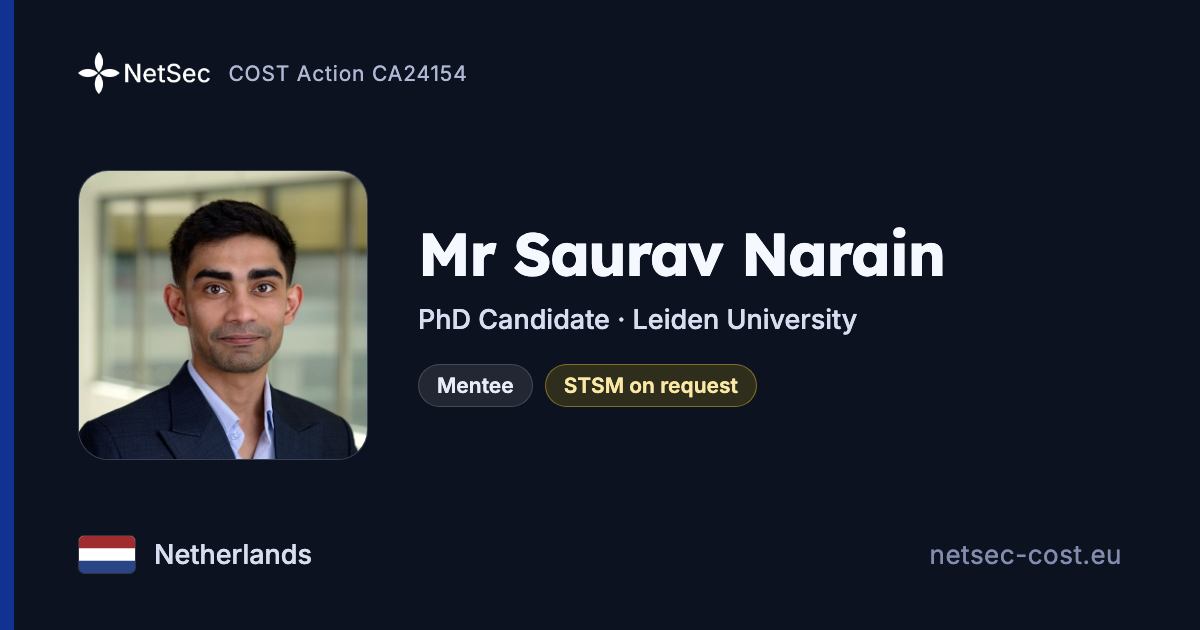
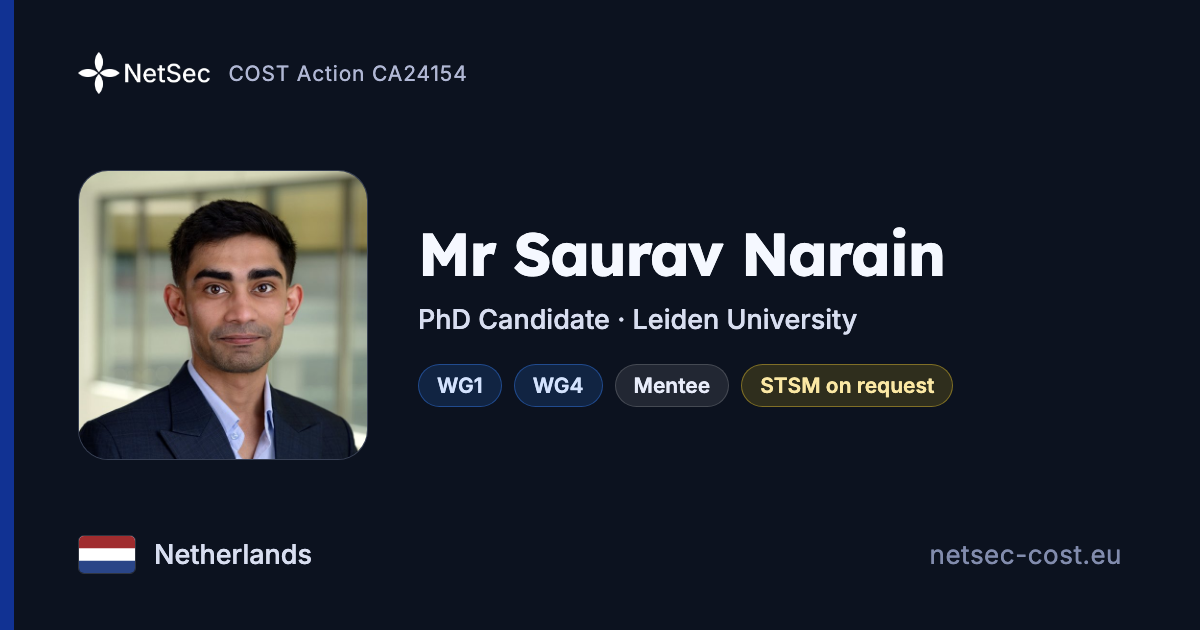
data: sync WG memberships + leadership from cost.eu (#1110)
* data: sync WG memberships + leadership from cost.eu

Refreshed four surfaces against the Membership and
Leadership tables on cost.eu/actions/CA24154/:
  - WG_MAP literal in index.html (home-page WG chips)
  - per-bio `wgs` + `wg_leadership` in data/bios.json (directory)
  - leadership `roles` array on seed entries in data/bios.json
  - data/wg.json (per-WG membership + leadership)
  - /people/<slug> profile pages rebuilt from the above
See the PR body for the exact diffs.

* data: regenerate Saurav Narain's OG card after the WG/leadership sync

The cost.eu sync changed this member's working-group / leadership data in
bios.json, which feeds the per-member OG card hash, but the sync workflow
rebuilds only the profile pages, not the cards. Re-render so the data-shape
and pytest `build-og-cards.py --check` gates pass. The workflow gap itself
is fixed separately.

---------

Changed region(s): [[0.3392, 0.573, 0.8017, 0.6635]]

diff --git a/index.html b/index.html
@@ -799,7 +799,7 @@ document.addEventListener('DOMContentLoaded', function () {
      Names are stored normalized (no salutation, no diacritics,
      lower-case) so the match is robust to formatting differences.
      To refresh, see scripts/sync-cost.py (committed alongside). */
-  const WG_MAP = {"abdelouahid ezzarfi": [4], "ajsela toci": [3], "aleksandar ivanov": [1, 2], "alena lochmannova": [4], "alessandro indelicato": [3, 4], "alin barbantan": [1, 3], "ana santos pinto": [2, 3], "andreea dragomir": [1, 3], "antonio calcara": [3], "anzelika baneviciene": [2, 3], "arthur laudrain": [1, 2, 3], "aurelija puraite": [2, 3], "benoit josset": [4], "benoit pelopidas": [3], "bora iyiat": [1, 2, 4], "brynjolfur stefansson": [2], "burak toraman": [2], "carmen marquez carrasco": [2, 3], "catherine menon": [1, 2], "chiara libiseller": [3], "cigdem ustun": [1, 3], "clara jammot": [1, 2], "constantinos adamides": [1, 2], "daniel o'toole": [1], "daniela castilhos": [4], "daniela mechkaroska": [2, 3], "danilo kalezic": [1, 2], "david curran": [1, 2, 3, 4], "david matsaberidze": [1, 3], "dimitar atanasov": [2], "draga gajic": [2, 3, 4], "eda kusku sonmez": [1, 3], "edlira titini": [2, 3, 4], "ekrem ok": [3], "eleni christodoulou": [1], "eleri lillemae": [1], "elif kara": [4], "elisabetta ginevra iida": [3], "erdem ozluk": [3], "esra merve boztosun caliskan": [1, 3], "eugenio sanchez": [3], "fatiha djebbar": [1, 3], "felipe pathe duarte": [1, 2, 3], "filip ejdus": [1, 2, 3, 4], "fitim kastrati": [4], "furkan sarper koseoglu": [1, 2, 3], "gayane harutyunyan": [2, 3], "georgian marius ghincea": [1, 2, 3, 4], "giulia biselli": [1, 2, 3, 4], "grigor vardanyan": [1, 2, 3, 4], "gurkan gur": [1], "halil kanadikirik": [1, 4], "hugo meijer": [1], "i. aytac kadioglu": [1, 3, 4], "ice ilijevski": [2, 3], "ilke gocmen": [1], "ilyas ferhat demirbas": [3], "isabelle haynes": [1], "islam jusufi": [1, 2, 3], "iztok prezelj": [1, 2, 3], "jessica pereira": [3, 4], "john helferich": [1], "julia carver": [1, 2, 4], "kalina lubas": [2], "keara barrett": [1, 2, 3, 4], "kenan hodzic": [3, 4], "kire babanoski": [1, 3, 4], "kujtim zeka": [3, 4], "laura inigo alvarez": [3, 4], "laurena kalaja": [1, 3], "liliana pasquale": [1], "lindita licaj": [3, 4], "lorenz sommer": [1], "ludovica castelli": [1, 3], "magnus petersson": [1], "marco wyss": [1, 3], "marie robin": [2, 3], "marina bartolome valenzuela": [2], "marko kovacevic": [1, 2, 3, 4], "martin chovancik": [1, 2, 3], "martin havacek": [1, 3], "mattia sguazzini": [1], "mehmet babacan": [2], "mehmet gokay ozerim": [1, 4], "mehmet recai uygur": [2, 3], "mentor beqa": [1, 2, 3], "mia abdic": [4], "milan varda": [1, 3], "mile obrenovic": [3], "miranda tedeshvili": [2, 3], "mirela imsirovic": [1, 3], "monica grau sarabia": [4], "monika gabriela bartoszewicz": [1, 2, 3], "moritz weiss": [1, 3], "muammer ozturk": [3], "muhammet ozcan": [1, 3, 4], "nemanja dzuverovic": [1, 4], "nicolas krieger": [1], "nicolas lemay-hebert": [3], "nikolaos tzifakis": [1], "njazi bytyqi": [4], "noela mahmutaj": [1, 2, 3], "paulina polko": [2], "pavlosioannis koktsidis": [1, 2, 3], "pieter zhao": [3], "pinar akgul": [1, 2], "pinar caglayan": [1, 4], "revecca pedi": [1, 4], "ruzica cubela bajramovic": [1, 2], "samuel zilincik": [1, 2, 3], "sandra cvikic": [2], "sanne verschuren": [1, 2], "sara russo": [2], "sarka kolmasova": [1, 2, 3, 4], "savas bicer": [2], "senada selo sabic": [2, 4], "serghei sprincean": [2], "sergiu gabriel berindea": [3], "seyithan ahmet ates": [1], "simge pelit": [3], "tahir azad": [2], "tamer kasikci": [1, 3, 4], "tanase tasente": [1, 2, 3, 4], "tanja pavleska": [1, 3, 4], "teemu hakkinen": [1, 2], "theo zacharis": [1], "tijana karic": [1, 2], "tijana recevic": [2, 3, 4], "tim thies": [3], "valderi leithardt": [4], "vanessa newby": [3], "vasil pavlov": [1, 3], "vasiliki plessia aravani": [2], "vedat coskun": [2], "veronica russu": [1, 2], "veronika nagy": [1, 4], "vesna nikolic": [2, 4], "violeta vasiliauskiene": [1], "vladimir sterpu": [1, 2, 3], "walid blila": [1, 2], "yagnyashri kodaru": [2], "yasemin necmiye tutar": [3], "yigit cem eskicioglu": [3, 4], "yijun xu": [3], "yusuf ozer": [2, 3]};
+  const WG_MAP = {"abdelouahid ezzarfi": [4], "ajsela toci": [3], "aleksandar ivanov": [1, 2], "alena lochmannova": [4], "alessandro indelicato": [3, 4], "alin barbantan": [1, 3], "ana santos pinto": [2, 3], "andreea dragomir": [1, 3], "antonio calcara": [3], "anzelika baneviciene": [2, 3], "arthur laudrain": [1, 2, 3], "aurelija puraite": [2, 3], "benoit josset": [4], "benoit pelopidas": [3], "bora iyiat": [1, 2, 4], "brynjolfur stefansson": [2], "burak toraman": [2], "carmen marquez carrasco": [2, 3], "catherine menon": [1, 2], "chiara libiseller": [3], "cigdem ustun": [1, 3], "clara jammot": [1, 2], "constantinos adamides": [1, 2], "daniel o'toole": [1], "daniela castilhos": [4], "daniela mechkaroska": [2, 3], "danilo kalezic": [1, 2], "david curran": [1, 2, 3, 4], "david matsaberidze": [1, 3], "dimitar atanasov": [2], "draga gajic": [2, 3, 4], "eda kusku sonmez": [1, 3], "edlira titini": [2, 3, 4], "ekrem ok": [3], "eleni christodoulou": [1], "eleri lillemae": [1], "elif kara": [4], "elisabetta ginevra iida": [3], "erdem ozluk": [3], "esra merve boztosun caliskan": [1, 3], "eugenio sanchez": [3], "fatiha djebbar": [1, 3], "felipe pathe duarte": [1, 2, 3], "filip ejdus": [1, 2, 3, 4], "fitim kastrati": [4], "furkan sarper koseoglu": [1, 2, 3], "gayane harutyunyan": [2, 3], "georgian marius ghincea": [1, 2, 3, 4], "giulia biselli": [1, 2, 3, 4], "grigor vardanyan": [1, 2, 3, 4], "gurkan gur": [1], "halil kanadikirik": [1, 4], "hugo meijer": [1], "i. aytac kadioglu": [1, 3, 4], "ice ilijevski": [2, 3], "ilke gocmen": [1], "ilyas ferhat demirbas": [3], "isabelle haynes": [1], "islam jusufi": [1, 2, 3], "iztok prezelj": [1, 2, 3], "jessica pereira": [3, 4], "john helferich": [1], "julia carver": [1, 2, 4], "kalina lubas": [2], "keara barrett": [1, 2, 3, 4], "kenan hodzic": [3, 4], "kire babanoski": [1, 3, 4], "kujtim zeka": [3, 4], "laura inigo alvarez": [3, 4], "laurena kalaja": [1, 3], "liliana pasquale": [1], "lindita licaj": [3, 4], "lorenz sommer": [1], "ludovica castelli": [1, 3], "magnus petersson": [1], "marco wyss": [1, 3], "marie robin": [2, 3], "marina bartolome valenzuela": [2], "marko kovacevic": [1, 2, 3, 4], "martin chovancik": [1, 2, 3], "martin havacek": [1, 3], "mattia sguazzini": [1], "mehmet babacan": [2], "mehmet gokay ozerim": [1, 4], "mehmet recai uygur": [2, 3], "mentor beqa": [1, 2, 3], "mia abdic": [4], "milan varda": [1, 3], "mile obrenovic": [3], "miranda tedeshvili": [2, 3], "mirela imsirovic": [1, 3], "monica grau sarabia": [4], "monika gabriela bartoszewicz": [1, 2, 3], "moritz weiss": [1, 3], "muammer ozturk": [3], "muhammet ozcan": [1, 3, 4], "nemanja dzuverovic": [1, 4], "nicolas krieger": [1], "nicolas lemay-hebert": [3], "nikolaos tzifakis": [1], "njazi bytyqi": [4], "noela mahmutaj": [1, 2, 3], "paulina polko": [2], "pavlosioannis koktsidis": [1, 2, 3], "pieter zhao": [3], "pinar akgul": [1, 2], "pinar caglayan": [1, 4], "revecca pedi": [1, 4], "ruzica cubela bajramovic": [1, 2], "samuel zilincik": [1, 2, 3], "sandra cvikic": [2], "sanne verschuren": [1, 2], "sara russo": [2], "sarka kolmasova": [1, 2, 3, 4], "saurav narain": [1, 4], "savas bicer": [2], "senada selo sabic": [2, 4], "serghei sprincean": [2], "sergiu gabriel berindea": [3], "seyithan ahmet ates": [1], "simge pelit": [3], "tahir azad": [2], "tamer kasikci": [1, 3, 4], "tanase tasente": [1, 2, 3, 4], "tanja pavleska": [1, 3, 4], "teemu hakkinen": [1, 2], "theo zacharis": [1], "tijana karic": [1, 2], "tijana recevic": [2, 3, 4], "tim thies": [3], "valderi leithardt": [4], "vanessa newby": [3], "vasil pavlov": [1, 3], "vasiliki plessia aravani": [2], "vedat coskun": [2], "veronica russu": [1, 2], "veronika nagy": [1, 4], "vesna nikolic": [2, 4], "violeta vasiliauskiene": [1], "vladimir sterpu": [1, 2, 3], "walid blila": [1, 2], "yagnyashri kodaru": [2], "yasemin necmiye tutar": [3], "yigit cem eskicioglu": [3, 4], "yijun xu": [3], "yusuf ozer": [2, 3]};
   const normPerson = s => s.normalize('NFKD').replace(/[\u0300-\u036f]/g, '').replace(/^(Dr|Prof|Mr|Ms|Mrs)\.?\s+/i, '').trim().toLowerCase();
   document.querySelectorAll('[data-person]').forEach(el => {
     const wgs = WG_MAP[normPerson(el.dataset.person)];

diff --git a/index.de.html b/index.de.html
@@ -714,7 +714,7 @@ document.addEventListener('DOMContentLoaded', function () {
   /* Working-group membership chips — WG_MAP is identical to the EN
      source; the matcher is name-based and language-agnostic. The
      aria-label is translated for screen-reader users. */
-  const WG_MAP = {"abdelouahid ezzarfi": [4], "ajsela toci": [3], "aleksandar ivanov": [1, 2], "alena lochmannova": [4], "alessandro indelicato": [3, 4], "alin barbantan": [1, 3], "ana santos pinto": [2, 3], "andreea dragomir": [1, 3], "antonio calcara": [3], "anzelika baneviciene": [2, 3], "arthur laudrain": [1, 2, 3], "aurelija puraite": [2, 3], "benoit josset": [4], "benoit pelopidas": [3], "bora iyiat": [1, 2, 4], "brynjolfur stefansson": [2], "burak toraman": [2], "carmen marquez carrasco": [2, 3], "catherine menon": [1, 2], "chiara libiseller": [3], "cigdem ustun": [1, 3], "clara jammot": [1, 2], "constantinos adamides": [1, 2], "daniel o'toole": [1], "daniela castilhos": [4], "daniela mechkaroska": [2, 3], "danilo kalezic": [1, 2], "david curran": [1, 2, 3, 4], "david matsaberidze": [1, 3], "dimitar atanasov": [2], "draga gajic": [2, 3, 4], "eda kusku sonmez": [1, 3], "edlira titini": [2, 3, 4], "ekrem ok": [3], "eleni christodoulou": [1], "eleri lillemae": [1], "elif kara": [4], "elisabetta ginevra iida": [3], "erdem ozluk": [3], "esra merve boztosun caliskan": [1, 3], "eugenio sanchez": [3], "fatiha djebbar": [1, 3], "felipe pathe duarte": [1, 2, 3], "filip ejdus": [1, 2, 3, 4], "fitim kastrati": [4], "furkan sarper koseoglu": [1, 2, 3], "gayane harutyunyan": [2, 3], "georgian marius ghincea": [1, 2, 3, 4], "giulia biselli": [1, 2, 3, 4], "grigor vardanyan": [1, 2, 3, 4], "gurkan gur": [1], "halil kanadikirik": [1, 4], "hugo meijer": [1], "i. aytac kadioglu": [1, 3, 4], "ice ilijevski": [2, 3], "ilke gocmen": [1], "ilyas ferhat demirbas": [3], "isabelle haynes": [1], "islam jusufi": [1, 2, 3], "iztok prezelj": [1, 2, 3], "jessica pereira": [3, 4], "john helferich": [1], "julia carver": [1, 2, 4], "kalina lubas": [2], "keara barrett": [1, 2, 3, 4], "kenan hodzic": [3, 4], "kire babanoski": [1, 3, 4], "kujtim zeka": [3, 4], "laura inigo alvarez": [3, 4], "laurena kalaja": [1, 3], "liliana pasquale": [1], "lindita licaj": [3, 4], "lorenz sommer": [1], "ludovica castelli": [1, 3], "magnus petersson": [1], "marco wyss": [1, 3], "marie robin": [2, 3], "marina bartolome valenzuela": [2], "marko kovacevic": [1, 2, 3, 4], "martin chovancik": [1, 2, 3], "martin havacek": [1, 3], "mattia sguazzini": [1], "mehmet babacan": [2], "mehmet gokay ozerim": [1, 4], "mehmet recai uygur": [2, 3], "mentor beqa": [1, 2, 3], "mia abdic": [4], "milan varda": [1, 3], "mile obrenovic": [3], "miranda tedeshvili": [2, 3], "mirela imsirovic": [1, 3], "monica grau sarabia": [4], "monika gabriela bartoszewicz": [1, 2, 3], "moritz weiss": [1, 3], "muammer ozturk": [3], "muhammet ozcan": [1, 3, 4], "nemanja dzuverovic": [1, 4], "nicolas krieger": [1], "nicolas lemay-hebert": [3], "nikolaos tzifakis": [1], "njazi bytyqi": [4], "noela mahmutaj": [1, 2, 3], "paulina polko": [2], "pavlosioannis koktsidis": [1, 2, 3], "pieter zhao": [3], "pinar akgul": [1, 2], "pinar caglayan": [1, 4], "revecca pedi": [1, 4], "ruzica cubela bajramovic": [1, 2], "samuel zilincik": [1, 2, 3], "sandra cvikic": [2], "sanne verschuren": [1, 2], "sara russo": [2], "sarka kolmasova": [1, 2, 3, 4], "savas bicer": [2], "senada selo sabic": [2, 4], "serghei sprincean": [2], "sergiu gabriel berindea": [3], "seyithan ahmet ates": [1], "simge pelit": [3], "tahir azad": [2], "tamer kasikci": [1, 3, 4], "tanase tasente": [1, 2, 3, 4], "tanja pavleska": [1, 3, 4], "teemu hakkinen": [1, 2], "theo zacharis": [1], "tijana karic": [1, 2], "tijana recevic": [2, 3, 4], "tim thies": [3], "valderi leithardt": [4], "vanessa newby": [3], "vasil pavlov": [1, 3], "vasiliki plessia aravani": [2], "vedat coskun": [2], "veronica russu": [1, 2], "veronika nagy": [1, 4], "vesna nikolic": [2, 4], "violeta vasiliauskiene": [1], "vladimir sterpu": [1, 2, 3], "walid blila": [1, 2], "yagnyashri kodaru": [2], "yasemin necmiye tutar": [3], "yigit cem eskicioglu": [3, 4], "yijun xu": [3], "yusuf ozer": [2, 3]};
+  const WG_MAP = {"abdelouahid ezzarfi": [4], "ajsela toci": [3], "aleksandar ivanov": [1, 2], "alena lochmannova": [4], "alessandro indelicato": [3, 4], "alin barbantan": [1, 3], "ana santos pinto": [2, 3], "andreea dragomir": [1, 3], "antonio calcara": [3], "anzelika baneviciene": [2, 3], "arthur laudrain": [1, 2, 3], "aurelija puraite": [2, 3], "benoit josset": [4], "benoit pelopidas": [3], "bora iyiat": [1, 2, 4], "brynjolfur stefansson": [2], "burak toraman": [2], "carmen marquez carrasco": [2, 3], "catherine menon": [1, 2], "chiara libiseller": [3], "cigdem ustun": [1, 3], "clara jammot": [1, 2], "constantinos adamides": [1, 2], "daniel o'toole": [1], "daniela castilhos": [4], "daniela mechkaroska": [2, 3], "danilo kalezic": [1, 2], "david curran": [1, 2, 3, 4], "david matsaberidze": [1, 3], "dimitar atanasov": [2], "draga gajic": [2, 3, 4], "eda kusku sonmez": [1, 3], "edlira titini": [2, 3, 4], "ekrem ok": [3], "eleni christodoulou": [1], "eleri lillemae": [1], "elif kara": [4], "elisabetta ginevra iida": [3], "erdem ozluk": [3], "esra merve boztosun caliskan": [1, 3], "eugenio sanchez": [3], "fatiha djebbar": [1, 3], "felipe pathe duarte": [1, 2, 3], "filip ejdus": [1, 2, 3, 4], "fitim kastrati": [4], "furkan sarper koseoglu": [1, 2, 3], "gayane harutyunyan": [2, 3], "georgian marius ghincea": [1, 2, 3, 4], "giulia biselli": [1, 2, 3, 4], "grigor vardanyan": [1, 2, 3, 4], "gurkan gur": [1], "halil kanadikirik": [1, 4], "hugo meijer": [1], "i. aytac kadioglu": [1, 3, 4], "ice ilijevski": [2, 3], "ilke gocmen": [1], "ilyas ferhat demirbas": [3], "isabelle haynes": [1], "islam jusufi": [1, 2, 3], "iztok prezelj": [1, 2, 3], "jessica pereira": [3, 4], "john helferich": [1], "julia carver": [1, 2, 4], "kalina lubas": [2], "keara barrett": [1, 2, 3, 4], "kenan hodzic": [3, 4], "kire babanoski": [1, 3, 4], "kujtim zeka": [3, 4], "laura inigo alvarez": [3, 4], "laurena kalaja": [1, 3], "liliana pasquale": [1], "lindita licaj": [3, 4], "lorenz sommer": [1], "ludovica castelli": [1, 3], "magnus petersson": [1], "marco wyss": [1, 3], "marie robin": [2, 3], "marina bartolome valenzuela": [2], "marko kovacevic": [1, 2, 3, 4], "martin chovancik": [1, 2, 3], "martin havacek": [1, 3], "mattia sguazzini": [1], "mehmet babacan": [2], "mehmet gokay ozerim": [1, 4], "mehmet recai uygur": [2, 3], "mentor beqa": [1, 2, 3], "mia abdic": [4], "milan varda": [1, 3], "mile obrenovic": [3], "miranda tedeshvili": [2, 3], "mirela imsirovic": [1, 3], "monica grau sarabia": [4], "monika gabriela bartoszewicz": [1, 2, 3], "moritz weiss": [1, 3], "muammer ozturk": [3], "muhammet ozcan": [1, 3, 4], "nemanja dzuverovic": [1, 4], "nicolas krieger": [1], "nicolas lemay-hebert": [3], "nikolaos tzifakis": [1], "njazi bytyqi": [4], "noela mahmutaj": [1, 2, 3], "paulina polko": [2], "pavlosioannis koktsidis": [1, 2, 3], "pieter zhao": [3], "pinar akgul": [1, 2], "pinar caglayan": [1, 4], "revecca pedi": [1, 4], "ruzica cubela bajramovic": [1, 2], "samuel zilincik": [1, 2, 3], "sandra cvikic": [2], "sanne verschuren": [1, 2], "sara russo": [2], "sarka kolmasova": [1, 2, 3, 4], "saurav narain": [1, 4], "savas bicer": [2], "senada selo sabic": [2, 4], "serghei sprincean": [2], "sergiu gabriel berindea": [3], "seyithan ahmet ates": [1], "simge pelit": [3], "tahir azad": [2], "tamer kasikci": [1, 3, 4], "tanase tasente": [1, 2, 3, 4], "tanja pavleska": [1, 3, 4], "teemu hakkinen": [1, 2], "theo zacharis": [1], "tijana karic": [1, 2], "tijana recevic": [2, 3, 4], "tim thies": [3], "valderi leithardt": [4], "vanessa newby": [3], "vasil pavlov": [1, 3], "vasiliki plessia aravani": [2], "vedat coskun": [2], "veronica russu": [1, 2], "veronika nagy": [1, 4], "vesna nikolic": [2, 4], "violeta vasiliauskiene": [1], "vladimir sterpu": [1, 2, 3], "walid blila": [1, 2], "yagnyashri kodaru": [2], "yasemin necmiye tutar": [3], "yigit cem eskicioglu": [3, 4], "yijun xu": [3], "yusuf ozer": [2, 3]};
   const normPerson = s => s.normalize('NFKD').replace(/[̀-ͯ]/g, '').replace(/^(Dr|Prof|Mr|Ms|Mrs)\.?\s+/i, '').trim().toLowerCase();
   document.querySelectorAll('[data-person]').forEach(el => {
     const wgs = WG_MAP[normPerson(el.dataset.person)];

diff --git a/index.fr.html b/index.fr.html
@@ -716,7 +716,7 @@ document.addEventListener('DOMContentLoaded', function () {
   /* Working-group membership chips — WG_MAP is identical to the EN
      source; the matcher is name-based and language-agnostic. The
      aria-label is translated for screen-reader users. */
-  const WG_MAP = {"abdelouahid ezzarfi": [4], "ajsela toci": [3], "aleksandar ivanov": [1, 2], "alena lochmannova": [4], "alessandro indelicato": [3, 4], "alin barbantan": [1, 3], "ana santos pinto": [2, 3], "andreea dragomir": [1, 3], "antonio calcara": [3], "anzelika baneviciene": [2, 3], "arthur laudrain": [1, 2, 3], "aurelija puraite": [2, 3], "benoit josset": [4], "benoit pelopidas": [3], "bora iyiat": [1, 2, 4], "brynjolfur stefansson": [2], "burak toraman": [2], "carmen marquez carrasco": [2, 3], "catherine menon": [1, 2], "chiara libiseller": [3], "cigdem ustun": [1, 3], "clara jammot": [1, 2], "constantinos adamides": [1, 2], "daniel o'toole": [1], "daniela castilhos": [4], "daniela mechkaroska": [2, 3], "danilo kalezic": [1, 2], "david curran": [1, 2, 3, 4], "david matsaberidze": [1, 3], "dimitar atanasov": [2], "draga gajic": [2, 3, 4], "eda kusku sonmez": [1, 3], "edlira titini": [2, 3, 4], "ekrem ok": [3], "eleni christodoulou": [1], "eleri lillemae": [1], "elif kara": [4], "elisabetta ginevra iida": [3], "erdem ozluk": [3], "esra merve boztosun caliskan": [1, 3], "eugenio sanchez": [3], "fatiha djebbar": [1, 3], "felipe pathe duarte": [1, 2, 3], "filip ejdus": [1, 2, 3, 4], "fitim kastrati": [4], "furkan sarper koseoglu": [1, 2, 3], "gayane harutyunyan": [2, 3], "georgian marius ghincea": [1, 2, 3, 4], "giulia biselli": [1, 2, 3, 4], "grigor vardanyan": [1, 2, 3, 4], "gurkan gur": [1], "halil kanadikirik": [1, 4], "hugo meijer": [1], "i. aytac kadioglu": [1, 3, 4], "ice ilijevski": [2, 3], "ilke gocmen": [1], "ilyas ferhat demirbas": [3], "isabelle haynes": [1], "islam jusufi": [1, 2, 3], "iztok prezelj": [1, 2, 3], "jessica pereira": [3, 4], "john helferich": [1], "julia carver": [1, 2, 4], "kalina lubas": [2], "keara barrett": [1, 2, 3, 4], "kenan hodzic": [3, 4], "kire babanoski": [1, 3, 4], "kujtim zeka": [3, 4], "laura inigo alvarez": [3, 4], "laurena kalaja": [1, 3], "liliana pasquale": [1], "lindita licaj": [3, 4], "lorenz sommer": [1], "ludovica castelli": [1, 3], "magnus petersson": [1], "marco wyss": [1, 3], "marie robin": [2, 3], "marina bartolome valenzuela": [2], "marko kovacevic": [1, 2, 3, 4], "martin chovancik": [1, 2, 3], "martin havacek": [1, 3], "mattia sguazzini": [1], "mehmet babacan": [2], "mehmet gokay ozerim": [1, 4], "mehmet recai uygur": [2, 3], "mentor beqa": [1, 2, 3], "mia abdic": [4], "milan varda": [1, 3], "mile obrenovic": [3], "miranda tedeshvili": [2, 3], "mirela imsirovic": [1, 3], "monica grau sarabia": [4], "monika gabriela bartoszewicz": [1, 2, 3], "moritz weiss": [1, 3], "muammer ozturk": [3], "muhammet ozcan": [1, 3, 4], "nemanja dzuverovic": [1, 4], "nicolas krieger": [1], "nicolas lemay-hebert": [3], "nikolaos tzifakis": [1], "njazi bytyqi": [4], "noela mahmutaj": [1, 2, 3], "paulina polko": [2], "pavlosioannis koktsidis": [1, 2, 3], "pieter zhao": [3], "pinar akgul": [1, 2], "pinar caglayan": [1, 4], "revecca pedi": [1, 4], "ruzica cubela bajramovic": [1, 2], "samuel zilincik": [1, 2, 3], "sandra cvikic": [2], "sanne verschuren": [1, 2], "sara russo": [2], "sarka kolmasova": [1, 2, 3, 4], "savas bicer": [2], "senada selo sabic": [2, 4], "serghei sprincean": [2], "sergiu gabriel berindea": [3], "seyithan ahmet ates": [1], "simge pelit": [3], "tahir azad": [2], "tamer kasikci": [1, 3, 4], "tanase tasente": [1, 2, 3, 4], "tanja pavleska": [1, 3, 4], "teemu hakkinen": [1, 2], "theo zacharis": [1], "tijana karic": [1, 2], "tijana recevic": [2, 3, 4], "tim thies": [3], "valderi leithardt": [4], "vanessa newby": [3], "vasil pavlov": [1, 3], "vasiliki plessia aravani": [2], "vedat coskun": [2], "veronica russu": [1, 2], "veronika nagy": [1, 4], "vesna nikolic": [2, 4], "violeta vasiliauskiene": [1], "vladimir sterpu": [1, 2, 3], "walid blila": [1, 2], "yagnyashri kodaru": [2], "yasemin necmiye tutar": [3], "yigit cem eskicioglu": [3, 4], "yijun xu": [3], "yusuf ozer": [2, 3]};
+  const WG_MAP = {"abdelouahid ezzarfi": [4], "ajsela toci": [3], "aleksandar ivanov": [1, 2], "alena lochmannova": [4], "alessandro indelicato": [3, 4], "alin barbantan": [1, 3], "ana santos pinto": [2, 3], "andreea dragomir": [1, 3], "antonio calcara": [3], "anzelika baneviciene": [2, 3], "arthur laudrain": [1, 2, 3], "aurelija puraite": [2, 3], "benoit josset": [4], "benoit pelopidas": [3], "bora iyiat": [1, 2, 4], "brynjolfur stefansson": [2], "burak toraman": [2], "carmen marquez carrasco": [2, 3], "catherine menon": [1, 2], "chiara libiseller": [3], "cigdem ustun": [1, 3], "clara jammot": [1, 2], "constantinos adamides": [1, 2], "daniel o'toole": [1], "daniela castilhos": [4], "daniela mechkaroska": [2, 3], "danilo kalezic": [1, 2], "david curran": [1, 2, 3, 4], "david matsaberidze": [1, 3], "dimitar atanasov": [2], "draga gajic": [2, 3, 4], "eda kusku sonmez": [1, 3], "edlira titini": [2, 3, 4], "ekrem ok": [3], "eleni christodoulou": [1], "eleri lillemae": [1], "elif kara": [4], "elisabetta ginevra iida": [3], "erdem ozluk": [3], "esra merve boztosun caliskan": [1, 3], "eugenio sanchez": [3], "fatiha djebbar": [1, 3], "felipe pathe duarte": [1, 2, 3], "filip ejdus": [1, 2, 3, 4], "fitim kastrati": [4], "furkan sarper koseoglu": [1, 2, 3], "gayane harutyunyan": [2, 3], "georgian marius ghincea": [1, 2, 3, 4], "giulia biselli": [1, 2, 3, 4], "grigor vardanyan": [1, 2, 3, 4], "gurkan gur": [1], "halil kanadikirik": [1, 4], "hugo meijer": [1], "i. aytac kadioglu": [1, 3, 4], "ice ilijevski": [2, 3], "ilke gocmen": [1], "ilyas ferhat demirbas": [3], "isabelle haynes": [1], "islam jusufi": [1, 2, 3], "iztok prezelj": [1, 2, 3], "jessica pereira": [3, 4], "john helferich": [1], "julia carver": [1, 2, 4], "kalina lubas": [2], "keara barrett": [1, 2, 3, 4], "kenan hodzic": [3, 4], "kire babanoski": [1, 3, 4], "kujtim zeka": [3, 4], "laura inigo alvarez": [3, 4], "laurena kalaja": [1, 3], "liliana pasquale": [1], "lindita licaj": [3, 4], "lorenz sommer": [1], "ludovica castelli": [1, 3], "magnus petersson": [1], "marco wyss": [1, 3], "marie robin": [2, 3], "marina bartolome valenzuela": [2], "marko kovacevic": [1, 2, 3, 4], "martin chovancik": [1, 2, 3], "martin havacek": [1, 3], "mattia sguazzini": [1], "mehmet babacan": [2], "mehmet gokay ozerim": [1, 4], "mehmet recai uygur": [2, 3], "mentor beqa": [1, 2, 3], "mia abdic": [4], "milan varda": [1, 3], "mile obrenovic": [3], "miranda tedeshvili": [2, 3], "mirela imsirovic": [1, 3], "monica grau sarabia": [4], "monika gabriela bartoszewicz": [1, 2, 3], "moritz weiss": [1, 3], "muammer ozturk": [3], "muhammet ozcan": [1, 3, 4], "nemanja dzuverovic": [1, 4], "nicolas krieger": [1], "nicolas lemay-hebert": [3], "nikolaos tzifakis": [1], "njazi bytyqi": [4], "noela mahmutaj": [1, 2, 3], "paulina polko": [2], "pavlosioannis koktsidis": [1, 2, 3], "pieter zhao": [3], "pinar akgul": [1, 2], "pinar caglayan": [1, 4], "revecca pedi": [1, 4], "ruzica cubela bajramovic": [1, 2], "samuel zilincik": [1, 2, 3], "sandra cvikic": [2], "sanne verschuren": [1, 2], "sara russo": [2], "sarka kolmasova": [1, 2, 3, 4], "saurav narain": [1, 4], "savas bicer": [2], "senada selo sabic": [2, 4], "serghei sprincean": [2], "sergiu gabriel berindea": [3], "seyithan ahmet ates": [1], "simge pelit": [3], "tahir azad": [2], "tamer kasikci": [1, 3, 4], "tanase tasente": [1, 2, 3, 4], "tanja pavleska": [1, 3, 4], "teemu hakkinen": [1, 2], "theo zacharis": [1], "tijana karic": [1, 2], "tijana recevic": [2, 3, 4], "tim thies": [3], "valderi leithardt": [4], "vanessa newby": [3], "vasil pavlov": [1, 3], "vasiliki plessia aravani": [2], "vedat coskun": [2], "veronica russu": [1, 2], "veronika nagy": [1, 4], "vesna nikolic": [2, 4], "violeta vasiliauskiene": [1], "vladimir sterpu": [1, 2, 3], "walid blila": [1, 2], "yagnyashri kodaru": [2], "yasemin necmiye tutar": [3], "yigit cem eskicioglu": [3, 4], "yijun xu": [3], "yusuf ozer": [2, 3]};
   const normPerson = s => s.normalize('NFKD').replace(/[̀-ͯ]/g, '').replace(/^(Dr|Prof|Mr|Ms|Mrs)\.?\s+/i, '').trim().toLowerCase();
   document.querySelectorAll('[data-person]').forEach(el => {
     const wgs = WG_MAP[normPerson(el.dataset.person)];

diff --git a/people/saurav-narain.de.html b/people/saurav-narain.de.html
@@ -148,7 +148,7 @@
 </header>
 <main id="main" class="profile-page">
   <div class="container profile-container">
-    <article class="member-card glass is-profile"><div class="member-photo"><picture><source srcset="assets/images/people/saurav-narain.webp" type="image/webp"><img src="assets/images/people/saurav-narain.jpg" alt="Mr Saurav Narain" loading="lazy"></picture></div><div class="member-body"><h1 class="member-name">Mr Saurav Narain</h1><p class="member-role is-soft" data-i18n="Network member">Network member</p><p class="member-affiliation"><img class="member-flag" src="https://flagcdn.com/h20/nl.png" alt="" loading="lazy"> <span class="aff-full">PhD Candidate · Leiden University · Netherlands</span></p><div class="member-mentorship" aria-label="Mentorship"><span class="mentorship-badge is-seeking" data-i18n="Seeking mentorship">Seeking mentorship</span></div><div class="member-stsm" aria-label="STSM hosting"><span class="stsm-badge is-ask" data-i18n="Open to hosting STSM visitors">Open to hosting STSM visitors</span></div><p class="member-bio is-expanded">Saurav Narain is a Marie-Curie PhD Candidate with the war, peace and justice research group at ISGA. His research interests are in the fields of EU Counterterrorism, United Nations and Local Peacekeeping. He is funded by Horizon Europe’s MSCA EU-GLOCTER project. 
+    <article class="member-card glass is-profile"><div class="member-photo"><picture><source srcset="assets/images/people/saurav-narain.webp" type="image/webp"><img src="assets/images/people/saurav-narain.jpg" alt="Mr Saurav Narain" loading="lazy"></picture></div><div class="member-body"><h1 class="member-name">Mr Saurav Narain</h1><p class="member-role is-soft" data-i18n="Working Group participant">Working Group participant</p><p class="member-affiliation"><img class="member-flag" src="https://flagcdn.com/h20/nl.png" alt="" loading="lazy"> <span class="aff-full">PhD Candidate · Leiden University · Netherlands</span></p><div class="member-wgs" role="group" aria-label="Working-group membership"><span class="wg-chip wg-1">WG1</span><span class="wg-chip wg-4">WG4</span></div><div class="member-mentorship" aria-label="Mentorship"><span class="mentorship-badge is-seeking" data-i18n="Seeking mentorship">Seeking mentorship</span></div><div class="member-stsm" aria-label="STSM hosting"><span class="stsm-badge is-ask" data-i18n="Open to hosting STSM visitors">Open to hosting STSM visitors</span></div><p class="member-bio is-expanded">Saurav Narain is a Marie-Curie PhD Candidate with the war, peace and justice research group at ISGA. His research interests are in the fields of EU Counterterrorism, United Nations and Local Peacekeeping. He is funded by Horizon Europe’s MSCA EU-GLOCTER project. 
 
 He has completed Erasmus Mundus International Master in Security, Intelligence and Security Studies (IMSISS) degree from University of Glasgow, Dublin City University and Charles University, Prague and additionally an MA in International Relation from Leiden University.</p><div class="member-keywords" aria-label="Research interests"><span class="member-keyword-chip is-static">Counterterrorism</span><span class="member-keyword-chip is-static">Multilateralism</span><span class="member-keyword-chip is-static">Peacekeeping</span><span class="member-keyword-chip is-static">Transnational and human security</span><span class="member-keyword-chip is-static">UN</span></div><div class="member-contact" aria-label="Contact"><a href="mailto:s.narain@fgga.leidenuniv.nl" aria-label="Email" title="Email" class="contact-link"><svg viewBox="0 0 24 24" fill="none" stroke="currentColor" stroke-width="1.9" stroke-linecap="round" stroke-linejoin="round" aria-hidden="true"><rect x="3" y="5" width="18" height="14" rx="2"/><path d="M3 7l9 6 9-6"/></svg></a><a href="https://orcid.org/0000-0002-6049-9777" aria-label="ORCID iD" title="ORCID iD" class="contact-link contact-orcid" target="_blank" rel="noopener"><svg viewBox="0 0 24 24" fill="currentColor" aria-hidden="true"><path fill-rule="evenodd" d="M12 0C5.372 0 0 5.372 0 12s5.372 12 12 12 12-5.372 12-12S18.628 0 12 0zM7.369 4.378c.525 0 .947.431.947.947 0 .525-.422.947-.947.947a.95.95 0 01-.947-.947c0-.516.422-.947.947-.947zm-.722 3.038h1.444v10.041H6.647V7.416zm3.562 0h3.9c3.712 0 5.344 2.653 5.344 5.025 0 2.578-2.016 5.025-5.325 5.025h-3.919V7.416zm1.444 1.303v7.444h2.297c3.272 0 4.022-2.484 4.022-3.722 0-2.016-1.284-3.722-4.094-3.722H12.8z"/></svg></a><a href="https://www.linkedin.com/in/saurav-narain-741b3b112/" aria-label="LinkedIn" title="LinkedIn" class="contact-link" target="_blank" rel="noopener"><svg viewBox="0 0 24 24" fill="currentColor" aria-hidden="true"><path fill-rule="evenodd" d="M20.447 20.452h-3.554v-5.569c0-1.328-.027-3.037-1.852-3.037-1.853 0-2.136 1.445-2.136 2.939v5.667H9.351V9h3.414v1.561h.046c.477-.9 1.637-1.85 3.37-1.85 3.601 0 4.267 2.37 4.267 5.455v6.286zM5.337 7.433a2.062 2.062 0 01-2.063-2.065 2.063 2.063 0 112.063 2.065zm1.782 13.019H3.555V9h3.564v11.452zM22.225 0H1.771C.792 0 0 .774 0 1.729v20.542C0 23.227.792 24 1.771 24h20.451C23.2 24 24 23.227 24 22.271V1.729C24 .774 23.2 0 22.222 0h.003z"/></svg></a></div></div></article>
     <p class="profile-back"><a href="people.de.html#saurav-narain" data-i18n="Back to the directory">&larr; Back to the directory</a></p>

diff --git a/people/saurav-narain.fr.html b/people/saurav-narain.fr.html
@@ -148,7 +148,7 @@
 </header>
 <main id="main" class="profile-page">
   <div class="container profile-container">
-    <article class="member-card glass is-profile"><div class="member-photo"><picture><source srcset="assets/images/people/saurav-narain.webp" type="image/webp"><img src="assets/images/people/saurav-narain.jpg" alt="Mr Saurav Narain" loading="lazy"></picture></div><div class="member-body"><h1 class="member-name">Mr Saurav Narain</h1><p class="member-role is-soft" data-i18n="Network member">Network member</p><p class="member-affiliation"><img class="member-flag" src="https://flagcdn.com/h20/nl.png" alt="" loading="lazy"> <span class="aff-full">PhD Candidate · Leiden University · Netherlands</span></p><div class="member-mentorship" aria-label="Mentorship"><span class="mentorship-badge is-seeking" data-i18n="Seeking mentorship">Seeking mentorship</span></div><div class="member-stsm" aria-label="STSM hosting"><span class="stsm-badge is-ask" data-i18n="Open to hosting STSM visitors">Open to hosting STSM visitors</span></div><p class="member-bio is-expanded">Saurav Narain is a Marie-Curie PhD Candidate with the war, peace and justice research group at ISGA. His research interests are in the fields of EU Counterterrorism, United Nations and Local Peacekeeping. He is funded by Horizon Europe’s MSCA EU-GLOCTER project. 
+    <article class="member-card glass is-profile"><div class="member-photo"><picture><source srcset="assets/images/people/saurav-narain.webp" type="image/webp"><img src="assets/images/people/saurav-narain.jpg" alt="Mr Saurav Narain" loading="lazy"></picture></div><div class="member-body"><h1 class="member-name">Mr Saurav Narain</h1><p class="member-role is-soft" data-i18n="Working Group participant">Working Group participant</p><p class="member-affiliation"><img class="member-flag" src="https://flagcdn.com/h20/nl.png" alt="" loading="lazy"> <span class="aff-full">PhD Candidate · Leiden University · Netherlands</span></p><div class="member-wgs" role="group" aria-label="Working-group membership"><span class="wg-chip wg-1">WG1</span><span class="wg-chip wg-4">WG4</span></div><div class="member-mentorship" aria-label="Mentorship"><span class="mentorship-badge is-seeking" data-i18n="Seeking mentorship">Seeking mentorship</span></div><div class="member-stsm" aria-label="STSM hosting"><span class="stsm-badge is-ask" data-i18n="Open to hosting STSM visitors">Open to hosting STSM visitors</span></div><p class="member-bio is-expanded">Saurav Narain is a Marie-Curie PhD Candidate with the war, peace and justice research group at ISGA. His research interests are in the fields of EU Counterterrorism, United Nations and Local Peacekeeping. He is funded by Horizon Europe’s MSCA EU-GLOCTER project. 
 
 He has completed Erasmus Mundus International Master in Security, Intelligence and Security Studies (IMSISS) degree from University of Glasgow, Dublin City University and Charles University, Prague and additionally an MA in International Relation from Leiden University.</p><div class="member-keywords" aria-label="Research interests"><span class="member-keyword-chip is-static">Counterterrorism</span><span class="member-keyword-chip is-static">Multilateralism</span><span class="member-keyword-chip is-static">Peacekeeping</span><span class="member-keyword-chip is-static">Transnational and human security</span><span class="member-keyword-chip is-static">UN</span></div><div class="member-contact" aria-label="Contact"><a href="mailto:s.narain@fgga.leidenuniv.nl" aria-label="Email" title="Email" class="contact-link"><svg viewBox="0 0 24 24" fill="none" stroke="currentColor" stroke-width="1.9" stroke-linecap="round" stroke-linejoin="round" aria-hidden="true"><rect x="3" y="5" width="18" height="14" rx="2"/><path d="M3 7l9 6 9-6"/></svg></a><a href="https://orcid.org/0000-0002-6049-9777" aria-label="ORCID iD" title="ORCID iD" class="contact-link contact-orcid" target="_blank" rel="noopener"><svg viewBox="0 0 24 24" fill="currentColor" aria-hidden="true"><path fill-rule="evenodd" d="M12 0C5.372 0 0 5.372 0 12s5.372 12 12 12 12-5.372 12-12S18.628 0 12 0zM7.369 4.378c.525 0 .947.431.947.947 0 .525-.422.947-.947.947a.95.95 0 01-.947-.947c0-.516.422-.947.947-.947zm-.722 3.038h1.444v10.041H6.647V7.416zm3.562 0h3.9c3.712 0 5.344 2.653 5.344 5.025 0 2.578-2.016 5.025-5.325 5.025h-3.919V7.416zm1.444 1.303v7.444h2.297c3.272 0 4.022-2.484 4.022-3.722 0-2.016-1.284-3.722-4.094-3.722H12.8z"/></svg></a><a href="https://www.linkedin.com/in/saurav-narain-741b3b112/" aria-label="LinkedIn" title="LinkedIn" class="contact-link" target="_blank" rel="noopener"><svg viewBox="0 0 24 24" fill="currentColor" aria-hidden="true"><path fill-rule="evenodd" d="M20.447 20.452h-3.554v-5.569c0-1.328-.027-3.037-1.852-3.037-1.853 0-2.136 1.445-2.136 2.939v5.667H9.351V9h3.414v1.561h.046c.477-.9 1.637-1.85 3.37-1.85 3.601 0 4.267 2.37 4.267 5.455v6.286zM5.337 7.433a2.062 2.062 0 01-2.063-2.065 2.063 2.063 0 112.063 2.065zm1.782 13.019H3.555V9h3.564v11.452zM22.225 0H1.771C.792 0 0 .774 0 1.729v20.542C0 23.227.792 24 1.771 24h20.451C23.2 24 24 23.227 24 22.271V1.729C24 .774 23.2 0 22.222 0h.003z"/></svg></a></div></div></article>
     <p class="profile-back"><a href="people.fr.html#saurav-narain" data-i18n="Back to the directory">&larr; Back to the directory</a></p>

diff --git a/people/saurav-narain.html b/people/saurav-narain.html
@@ -148,7 +148,7 @@
 </header>
 <main id="main" class="profile-page">
   <div class="container profile-container">
-    <article class="member-card glass is-profile"><div class="member-photo"><picture><source srcset="assets/images/people/saurav-narain.webp" type="image/webp"><img src="assets/images/people/saurav-narain.jpg" alt="Mr Saurav Narain" loading="lazy"></picture></div><div class="member-body"><h1 class="member-name">Mr Saurav Narain</h1><p class="member-role is-soft" data-i18n="Network member">Network member</p><p class="member-affiliation"><img class="member-flag" src="https://flagcdn.com/h20/nl.png" alt="" loading="lazy"> <span class="aff-full">PhD Candidate · Leiden University · Netherlands</span></p><div class="member-mentorship" aria-label="Mentorship"><span class="mentorship-badge is-seeking" data-i18n="Seeking mentorship">Seeking mentorship</span></div><div class="member-stsm" aria-label="STSM hosting"><span class="stsm-badge is-ask" data-i18n="Open to hosting STSM visitors">Open to hosting STSM visitors</span></div><p class="member-bio is-expanded">Saurav Narain is a Marie-Curie PhD Candidate with the war, peace and justice research group at ISGA. His research interests are in the fields of EU Counterterrorism, United Nations and Local Peacekeeping. He is funded by Horizon Europe’s MSCA EU-GLOCTER project. 
+    <article class="member-card glass is-profile"><div class="member-photo"><picture><source srcset="assets/images/people/saurav-narain.webp" type="image/webp"><img src="assets/images/people/saurav-narain.jpg" alt="Mr Saurav Narain" loading="lazy"></picture></div><div class="member-body"><h1 class="member-name">Mr Saurav Narain</h1><p class="member-role is-soft" data-i18n="Working Group participant">Working Group participant</p><p class="member-affiliation"><img class="member-flag" src="https://flagcdn.com/h20/nl.png" alt="" loading="lazy"> <span class="aff-full">PhD Candidate · Leiden University · Netherlands</span></p><div class="member-wgs" role="group" aria-label="Working-group membership"><span class="wg-chip wg-1">WG1</span><span class="wg-chip wg-4">WG4</span></div><div class="member-mentorship" aria-label="Mentorship"><span class="mentorship-badge is-seeking" data-i18n="Seeking mentorship">Seeking mentorship</span></div><div class="member-stsm" aria-label="STSM hosting"><span class="stsm-badge is-ask" data-i18n="Open to hosting STSM visitors">Open to hosting STSM visitors</span></div><p class="member-bio is-expanded">Saurav Narain is a Marie-Curie PhD Candidate with the war, peace and justice research group at ISGA. His research interests are in the fields of EU Counterterrorism, United Nations and Local Peacekeeping. He is funded by Horizon Europe’s MSCA EU-GLOCTER project. 
 
 He has completed Erasmus Mundus International Master in Security, Intelligence and Security Studies (IMSISS) degree from University of Glasgow, Dublin City University and Charles University, Prague and additionally an MA in International Relation from Leiden University.</p><div class="member-keywords" aria-label="Research interests"><span class="member-keyword-chip is-static">Counterterrorism</span><span class="member-keyword-chip is-static">Multilateralism</span><span class="member-keyword-chip is-static">Peacekeeping</span><span class="member-keyword-chip is-static">Transnational and human security</span><span class="member-keyword-chip is-static">UN</span></div><div class="member-contact" aria-label="Contact"><a href="mailto:s.narain@fgga.leidenuniv.nl" aria-label="Email" title="Email" class="contact-link"><svg viewBox="0 0 24 24" fill="none" stroke="currentColor" stroke-width="1.9" stroke-linecap="round" stroke-linejoin="round" aria-hidden="true"><rect x="3" y="5" width="18" height="14" rx="2"/><path d="M3 7l9 6 9-6"/></svg></a><a href="https://orcid.org/0000-0002-6049-9777" aria-label="ORCID iD" title="ORCID iD" class="contact-link contact-orcid" target="_blank" rel="noopener"><svg viewBox="0 0 24 24" fill="currentColor" aria-hidden="true"><path fill-rule="evenodd" d="M12 0C5.372 0 0 5.372 0 12s5.372 12 12 12 12-5.372 12-12S18.628 0 12 0zM7.369 4.378c.525 0 .947.431.947.947 0 .525-.422.947-.947.947a.95.95 0 01-.947-.947c0-.516.422-.947.947-.947zm-.722 3.038h1.444v10.041H6.647V7.416zm3.562 0h3.9c3.712 0 5.344 2.653 5.344 5.025 0 2.578-2.016 5.025-5.325 5.025h-3.919V7.416zm1.444 1.303v7.444h2.297c3.272 0 4.022-2.484 4.022-3.722 0-2.016-1.284-3.722-4.094-3.722H12.8z"/></svg></a><a href="https://www.linkedin.com/in/saurav-narain-741b3b112/" aria-label="LinkedIn" title="LinkedIn" class="contact-link" target="_blank" rel="noopener"><svg viewBox="0 0 24 24" fill="currentColor" aria-hidden="true"><path fill-rule="evenodd" d="M20.447 20.452h-3.554v-5.569c0-1.328-.027-3.037-1.852-3.037-1.853 0-2.136 1.445-2.136 2.939v5.667H9.351V9h3.414v1.561h.046c.477-.9 1.637-1.85 3.37-1.85 3.601 0 4.267 2.37 4.267 5.455v6.286zM5.337 7.433a2.062 2.062 0 01-2.063-2.065 2.063 2.063 0 112.063 2.065zm1.782 13.019H3.555V9h3.564v11.452zM22.225 0H1.771C.792 0 0 .774 0 1.729v20.542C0 23.227.792 24 1.771 24h20.451C23.2 24 24 23.227 24 22.271V1.729C24 .774 23.2 0 22.222 0h.003z"/></svg></a></div></div></article>
     <p class="profile-back"><a href="people.html#saurav-narain" data-i18n="Back to the directory">&larr; Back to the directory</a></p>
